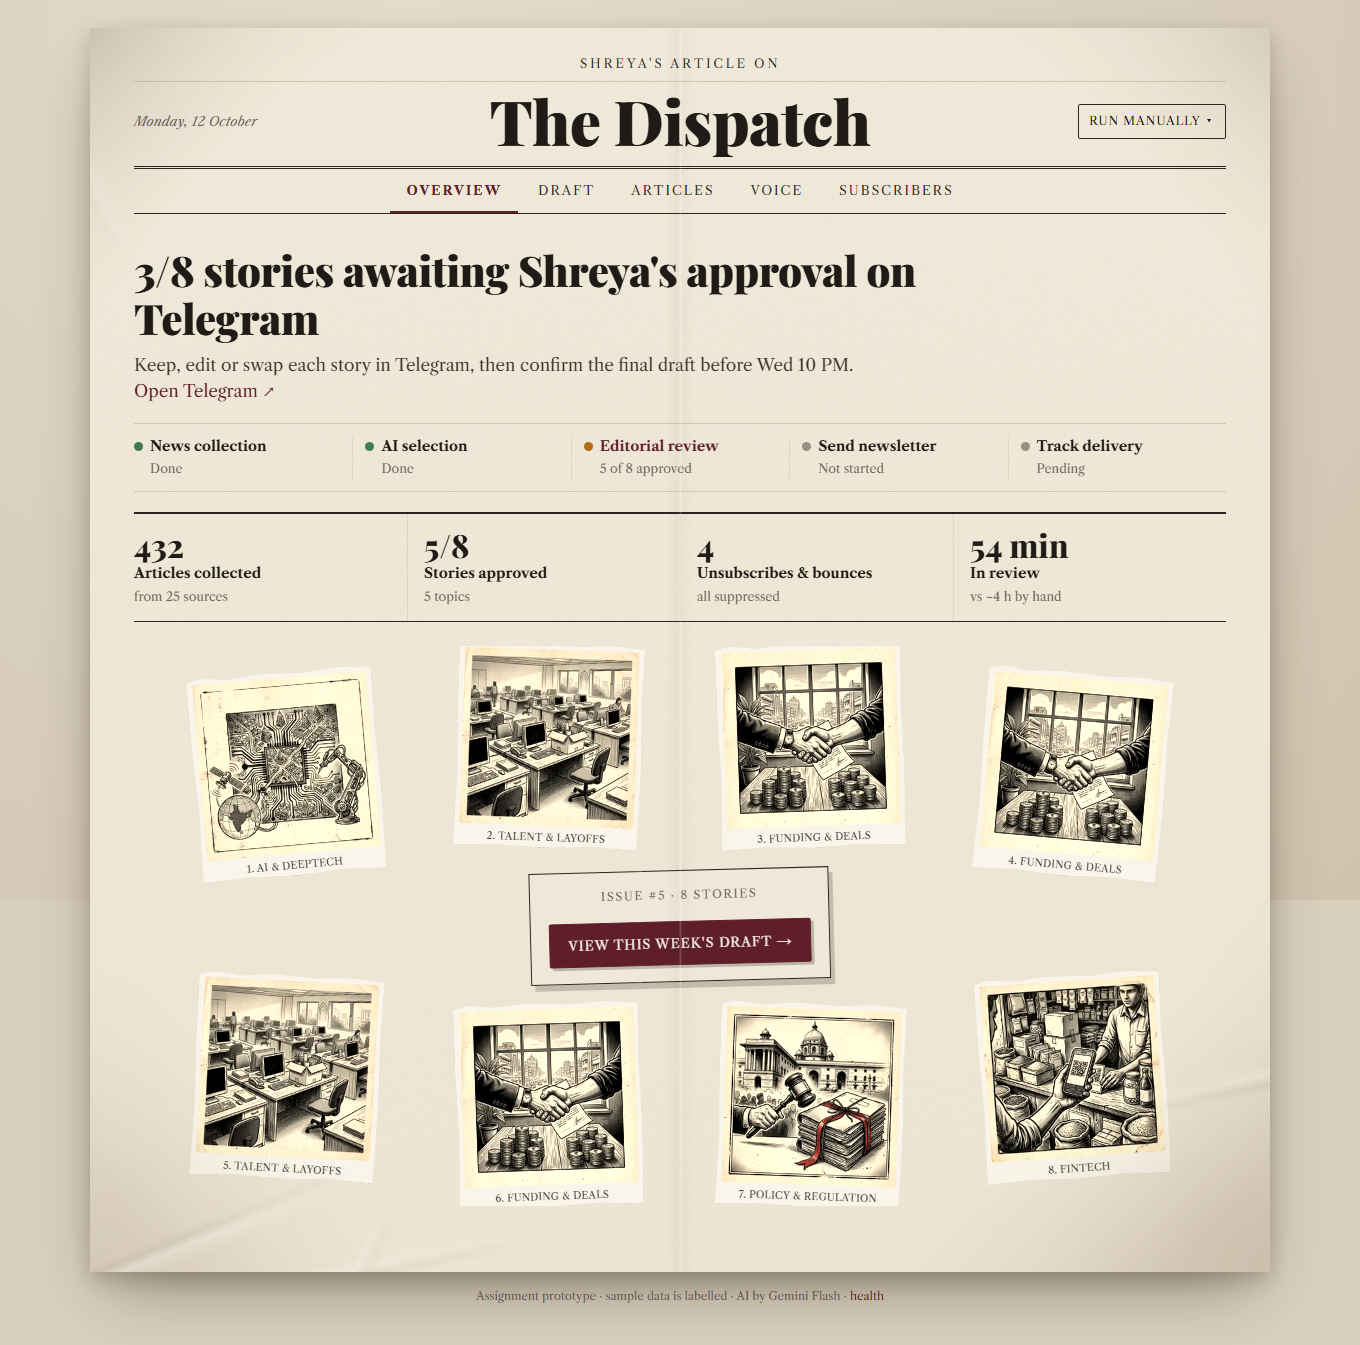
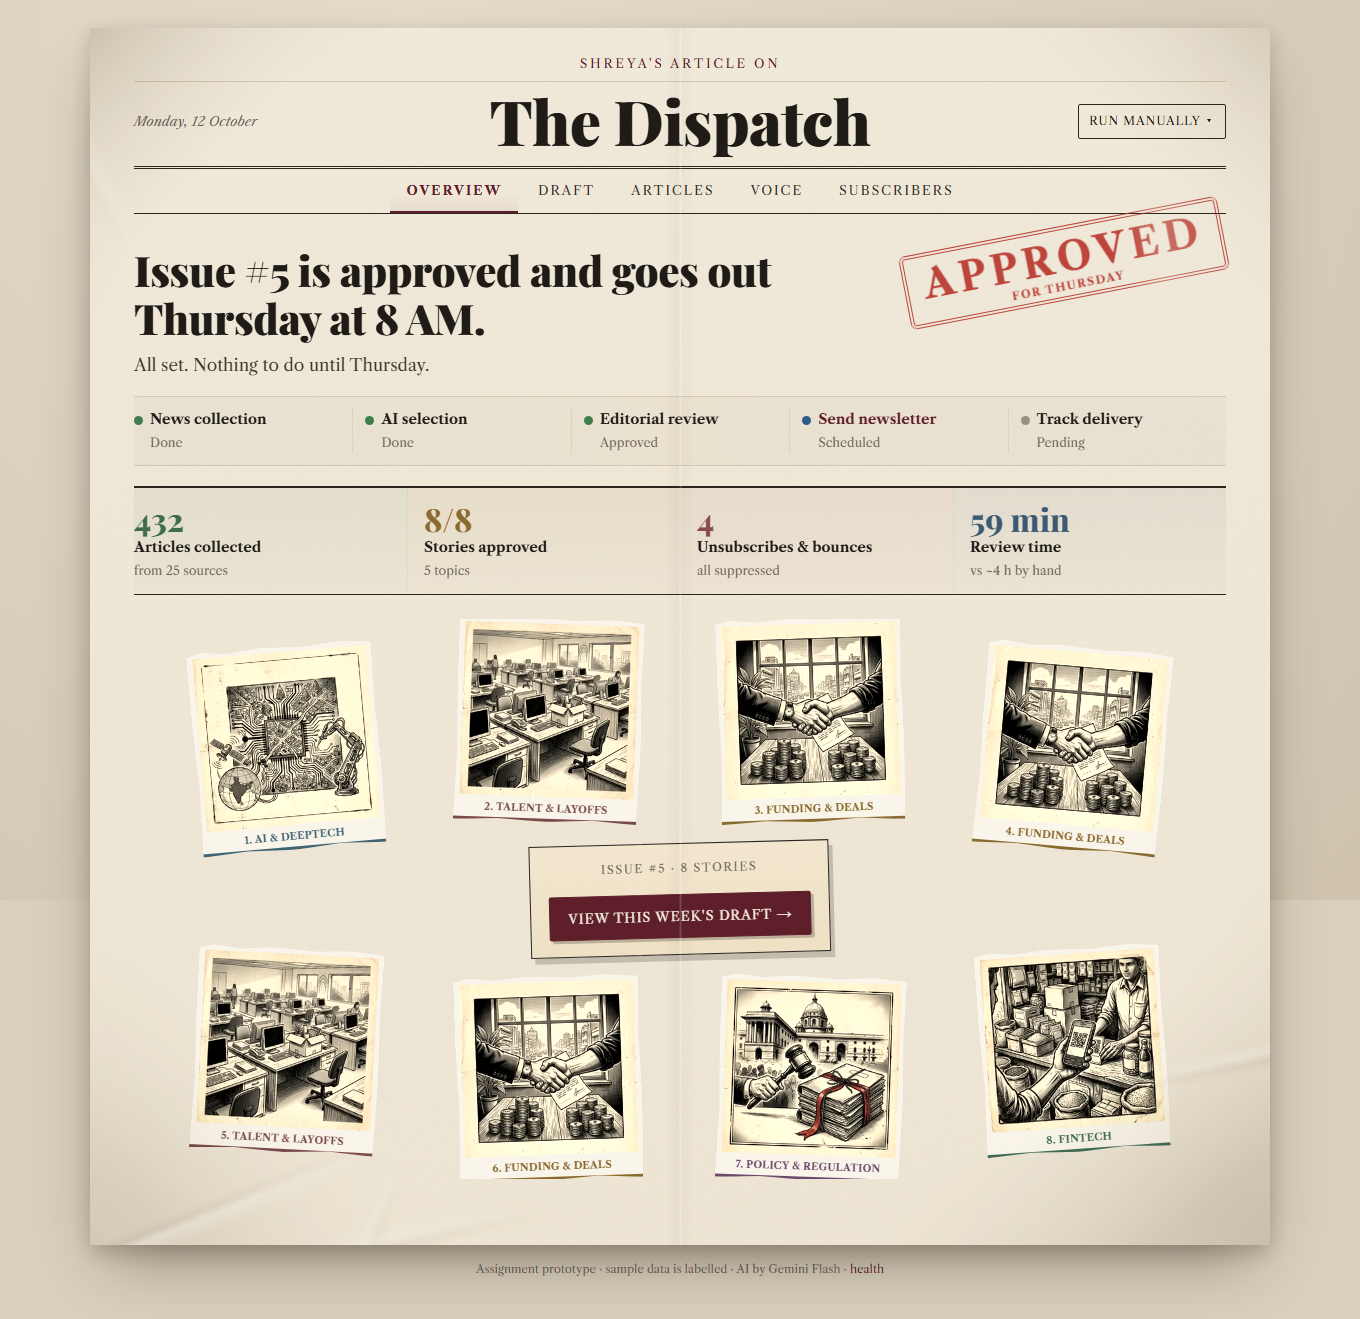
Subtle colour: muted topic inks, tinted number panels, coloured subscriber stats

diff --git a/app/page.tsx b/app/page.tsx
@@ -4,7 +4,7 @@ import { ADMIN_COOKIE, validAdminSession } from "@/lib/auth";
 import { fmtMinutes, loadDashboard, MANUAL_MINUTES, maskEmail, type Dot } from "@/lib/dashboard";
 import { renderEmail } from "@/lib/email";
 import { formatIst, SCHEDULE } from "@/lib/time";
-import { topicImage } from "@/lib/topic-art";
+import { tc, topicImage } from "@/lib/topic-art";
 import { TOPICS } from "@/lib/topics";
 import { Paper, type Tab } from "./paper";
 
@@ -109,10 +109,10 @@ function Overview({ d }: { d: D }) {
       <Workflow d={d} />
 
       <section className="cards" aria-label="This week in numbers">
-        <Card href="/?p=articles" num={d.counts.total} lbl="Articles collected" sub={`from ${d.activeSources.length} sources`} />
-        <Card href="/?p=draft" num={hasDraft ? `${d.health.approved}/${d.health.count}` : "—"} lbl="Stories approved" sub={hasDraft ? `${d.health.topics.length} topics` : "draft due Wed 3 PM"} />
-        <Card href="/?p=subscribers" num={suppressed} lbl="Unsubscribes & bounces" sub="all suppressed" />
-        <Card href="/?p=draft" num={d.review ? fmtMinutes(d.review.minutes) : "—"} lbl={d.review?.done ? "Review time" : "In review"} sub={`vs ~${MANUAL_MINUTES / 60} h by hand`} />
+        <Card tint="sage" href="/?p=articles" num={d.counts.total} lbl="Articles collected" sub={`from ${d.activeSources.length} sources`} />
+        <Card tint="ochre" href="/?p=draft" num={hasDraft ? `${d.health.approved}/${d.health.count}` : "—"} lbl="Stories approved" sub={hasDraft ? `${d.health.topics.length} topics` : "draft due Wed 3 PM"} />
+        <Card tint="rose" href="/?p=subscribers" num={suppressed} lbl="Unsubscribes & bounces" sub="all suppressed" />
+        <Card tint="slate" href="/?p=draft" num={d.review ? fmtMinutes(d.review.minutes) : "—"} lbl={d.review?.done ? "Review time" : "In review"} sub={`vs ~${MANUAL_MINUTES / 60} h by hand`} />
       </section>
 
       <section className="edition" aria-label="This week's edition">
@@ -120,7 +120,7 @@ function Overview({ d }: { d: D }) {
           {shown.map((t, i) => {
             const s = spots[i];
             return (
-              <figure className={`tile${shown.length > 8 ? " small" : ""}`} key={t.key} style={{ "--x": s.x, "--y": s.y, "--r": s.r, "--sx": s.sx, "--sy": s.sy } as React.CSSProperties}>
+              <figure className={`tile${shown.length > 8 ? " small" : ""}`} key={t.key} style={{ ...tc(t.topic), "--x": s.x, "--y": s.y, "--r": s.r, "--sx": s.sx, "--sy": s.sy } as React.CSSProperties}>
                 <div style={{ position: "relative", width: "100%", height: "100%" }}>
                   <Image src={topicImage(t.topic)} alt={`Illustration for ${t.topic}`} fill sizes="(max-width: 760px) 30vw, 220px" />
                 </div>
@@ -138,10 +138,10 @@ function Overview({ d }: { d: D }) {
   );
 }
 
-function Card({ href, num, lbl, sub }: { href: string; num: React.ReactNode; lbl: string; sub: string }) {
+function Card({ href, num, lbl, sub, tint }: { href: string; num: React.ReactNode; lbl: string; sub: string; tint: string }) {
   const page = new URLSearchParams(href.split("?")[1]).get("p") ?? "overview";
   return (
-    <a className="card" href={href} data-page={page}>
+    <a className={`card tint-${tint}`} href={href} data-page={page}>
       <span className="num">{num}</span>
       <span className="lbl">{lbl}</span>
       <span className="sub">{sub}</span>
@@ -175,7 +175,7 @@ function DraftPage({ d, admin }: { d: D; admin: boolean }) {
 
       <section className="draft-grid">
         {d.stories.map((s, i) => (
-          <article key={s.id} className={`story${i === 0 ? " lead" : ""}`} style={{ "--i": i } as React.CSSProperties}>
+          <article key={s.id} className={`story${i === 0 ? " lead" : ""}`} style={{ ...tc(s.topic), "--i": i } as React.CSSProperties}>
             <div className="art">
               <Image src={topicImage(s.topic)} alt={`Illustration for ${s.topic}`} fill sizes={i === 0 ? "(max-width: 760px) 100vw, 560px" : "(max-width: 760px) 100vw, 360px"} />
               <span className="pos">{s.position}</span>
@@ -247,8 +247,8 @@ function DraftPage({ d, admin }: { d: D; admin: boolean }) {
         <details className="nested">
           <summary>Reserves ({d.reserves.length}) and removed stories ({d.removed.length})</summary>
           <div className="inner">
-            {d.reserves.map((r) => <p key={r.id} className="small"><span className="tag">reserve {r.reserve_rank}</span> {r.title} <span className="muted">· {r.topic}</span></p>)}
-            {d.removed.map((r) => <p key={r.id} className="small"><span className="tag">{r.state.replace("_", " ")}</span> {r.title} <span className="muted">· {r.topic}</span></p>)}
+            {d.reserves.map((r) => <p key={r.id} className="small"><span className="tag">reserve {r.reserve_rank}</span> {r.title} <span className="ttag" style={tc(r.topic)}>{r.topic}</span></p>)}
+            {d.removed.map((r) => <p key={r.id} className="small"><span className="tag">{r.state.replace("_", " ")}</span> {r.title} <span className="ttag" style={tc(r.topic)}>{r.topic}</span></p>)}
             {!d.reserves.length && !d.removed.length && <p className="muted small">None.</p>}
           </div>
         </details>
@@ -321,7 +321,7 @@ function ArticlesPage({ d, sp }: { d: D; sp: SP }) {
         </div>
         <div className="chips" aria-label="Filter by topic">
           <Chip href={filterHref(sp, { atopic: undefined })} on={!sp.atopic}>All topics</Chip>
-          {TOPICS.map((t) => <Chip key={t} href={filterHref(sp, { atopic: t })} on={sp.atopic === t}>{t} ({d.topicCounts.find((x) => x.topic === t)?.n ?? 0})</Chip>)}
+          {TOPICS.map((t) => <Chip key={t} topic={t} href={filterHref(sp, { atopic: t })} on={sp.atopic === t}>{t} ({d.topicCounts.find((x) => x.topic === t)?.n ?? 0})</Chip>)}
         </div>
       </div>
       <div className="rows" style={{ marginTop: 14 }}>
@@ -333,7 +333,7 @@ function ArticlesPage({ d, sp }: { d: D; sp: SP }) {
               <summary className="g-articles">
                 <span className="cell-title">{a.title}</span>
                 <span className="muted small cell-title">{a.source_name}</span>
-                <span><span className="tag">{a.topic ?? "untagged"}</span></span>
+                <span><span className="ttag" style={tc(a.topic)}>{a.topic ?? "untagged"}</span></span>
                 <span className="muted small">{a.published_at ? formatIst(a.published_at, { weekday: undefined, hour: undefined, minute: undefined }) : "—"}</span>
                 <Status dot={st.dot} text={st.label} />
               </summary>
@@ -444,11 +444,11 @@ function SubscribersPage({ d, admin }: { d: D; admin: boolean }) {
         <p className="lede">Gmail's one-click unsubscribe works on every email (List-Unsubscribe + List-Unsubscribe-Post), plus a signed link in the footer. Hard bounces and spam complaints arrive through signed Resend webhooks; temporary bounces are counted and only suppress after 3 in a row. Suppressed addresses never receive another issue.</p>
       </div></section>
       <div className="stats">
-        <div><div className="num">{d.subCounts.active}</div><div className="lbl">Active</div></div>
-        <div><div className="num">{d.subCounts.unsubscribed}</div><div className="lbl">Unsubscribed</div></div>
-        <div><div className="num">{d.subCounts.bounced}</div><div className="lbl">Bounced</div></div>
-        <div><div className="num">{d.subCounts.complained}</div><div className="lbl">Spam complaints</div></div>
-        <div><div className="num">{d.softWatch}</div><div className="lbl">Soft-bounce watch</div></div>
+        <div className="ink-green"><div className="num">{d.subCounts.active}</div><div className="lbl">Active</div></div>
+        <div className="ink-grey"><div className="num">{d.subCounts.unsubscribed}</div><div className="lbl">Unsubscribed</div></div>
+        <div className="ink-red"><div className="num">{d.subCounts.bounced}</div><div className="lbl">Bounced</div></div>
+        <div className="ink-plum"><div className="num">{d.subCounts.complained}</div><div className="lbl">Spam complaints</div></div>
+        <div className="ink-ochre"><div className="num">{d.softWatch}</div><div className="lbl">Soft-bounce watch</div></div>
       </div>
       <section className="columns">
         <div className="box">
@@ -543,7 +543,7 @@ function RunMenu({ admin, login }: { admin: boolean; login?: string }) {
 }
 
 const Status = ({ dot, text }: { dot: Dot; text: string }) => <span className="status small"><span className={`dot ${dot}`} />{text}</span>;
-const Chip = ({ href, on, children }: { href: string; on: boolean; children: React.ReactNode }) => <a className={`chip${on ? " on" : ""}`} href={href}>{children}</a>;
+const Chip = ({ href, on, children, topic }: { href: string; on: boolean; children: React.ReactNode; topic?: string }) => <a className={`chip${on ? " on" : ""}${topic ? " tchip" : ""}`} style={topic ? tc(topic) : undefined} href={href}>{children}</a>;
 const cap = (s: string) => s.charAt(0).toUpperCase() + s.slice(1);
 const sourceWord = (s?: string) => ({ learned: "learned from her writing", edited: "edited", assumed: "assumed voice" } as Record<string, string>)[s ?? "assumed"] ?? s ?? "";
 

diff --git a/app/globals.css b/app/globals.css
@@ -363,3 +363,29 @@ iframe.preview { width: 100%; height: 720px; border: 1px solid var(--line); back
   @keyframes unfold-back { from { transform: translateX(-30%); opacity: 0; } to { transform: none; opacity: 1; } }
   @keyframes fold-back { to { transform: translateX(30%); opacity: 0; } }
 }
+
+/* ---------------- Subtle colour: muted inks and faint washes ---------------- */
+:root { --sage: #3f6b4e; --ochre: #8a6a2f; --rose: #8a4a4a; --slate: #3d5a73; --plum: #6b4a6e; }
+.masthead .strap { color: var(--accent); }
+.card.tint-sage  { background: linear-gradient(180deg, rgba(63,107,78,.07), rgba(63,107,78,.02)); }
+.card.tint-ochre { background: linear-gradient(180deg, rgba(138,106,47,.08), rgba(138,106,47,.02)); }
+.card.tint-rose  { background: linear-gradient(180deg, rgba(138,74,74,.07), rgba(138,74,74,.02)); }
+.card.tint-slate { background: linear-gradient(180deg, rgba(61,90,115,.07), rgba(61,90,115,.02)); }
+.card.tint-sage .num  { color: var(--sage); }
+.card.tint-ochre .num { color: var(--ochre); }
+.card.tint-rose .num  { color: var(--rose); }
+.card.tint-slate .num { color: var(--slate); }
+.card { border-left-color: rgba(0,0,0,.06); }
+.collage-center { background: linear-gradient(180deg, #f6ead2, #f1e4c8); background-image: var(--noise), linear-gradient(180deg, #f6ead2, #f1e4c8); }
+.tile { border-bottom: 3px solid var(--tc, transparent); }
+.tile .cap { color: var(--tc, var(--ink-2)); font-weight: 700; }
+.story .topic { color: var(--tc, var(--accent)); font-weight: 700; }
+.story .art { border-bottom: 3px solid var(--tc, var(--line)); }
+.story .pos { background: var(--tc, var(--ink)); }
+.ttag { display: inline-block; font-size: 11.5px; letter-spacing: .03em; padding: 1px 8px; border-radius: 2px; color: var(--tc); background: color-mix(in srgb, var(--tc) 10%, transparent); border: 1px solid color-mix(in srgb, var(--tc) 30%, transparent); white-space: nowrap; overflow: hidden; text-overflow: ellipsis; max-width: 100%; }
+.chip.tchip { color: var(--tc); border-color: color-mix(in srgb, var(--tc) 30%, transparent); background: color-mix(in srgb, var(--tc) 6%, transparent); }
+.chip.tchip.on { background: var(--tc); border-color: var(--tc); color: #fbf6ea; }
+.ink-green .num { color: var(--green); } .ink-grey .num { color: var(--faint); } .ink-red .num { color: var(--red); }
+.ink-plum .num { color: var(--plum); } .ink-ochre .num { color: var(--ochre); }
+.workflow { background: linear-gradient(90deg, rgba(63,107,78,.04), rgba(138,106,47,.04), rgba(61,90,115,.04)); }
+.topnav a.on { background: linear-gradient(180deg, transparent 60%, rgba(94,31,42,.06)); }

diff --git a/lib/topic-art.ts b/lib/topic-art.ts
@@ -12,3 +12,21 @@ export const TOPIC_IMAGE: Record<string, string> = {
 };
 
 export const topicImage = (topic: string | null | undefined) => TOPIC_IMAGE[topic ?? "Other"] ?? TOPIC_IMAGE.Other;
+
+/** Muted "ink" colour per topic — used for labels, tags and thin rules, never large fills. */
+export const TOPIC_COLOR: Record<string, string> = {
+  "Funding & Deals": "#8a6a2f",
+  "AI & Deeptech": "#3f6474",
+  "Policy & Regulation": "#6b4a6e",
+  Fintech: "#3e6b55",
+  "Consumer & Commerce": "#9a5b3c",
+  "Markets & IPOs": "#2f5175",
+  "Talent & Layoffs": "#7a4a4a",
+  "Climate & Mobility": "#4f6b33",
+  Other: "#6e655a",
+};
+
+export const topicColor = (topic: string | null | undefined) => TOPIC_COLOR[topic ?? "Other"] ?? TOPIC_COLOR.Other;
+
+/** Inline style that exposes the topic colour as the CSS variable --tc. */
+export const tc = (topic: string | null | undefined) => ({ "--tc": topicColor(topic) }) as React.CSSProperties;
